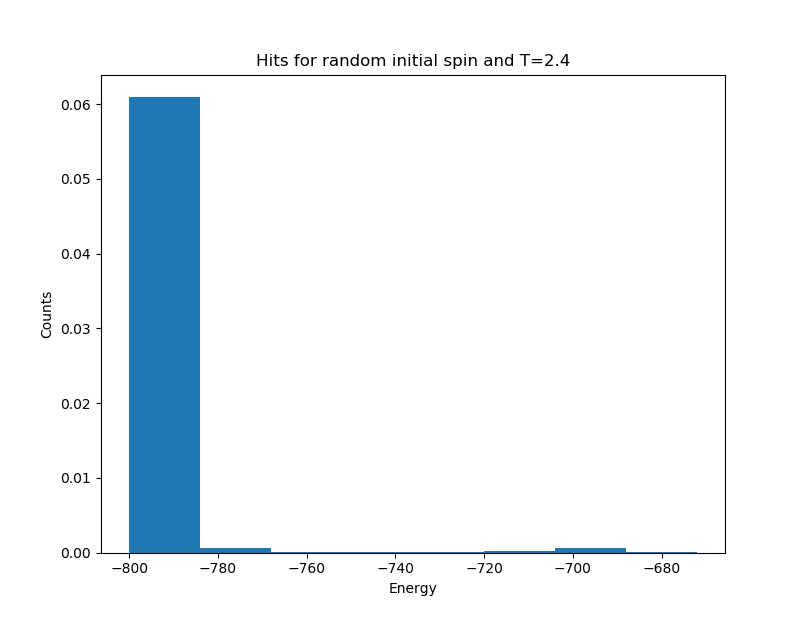
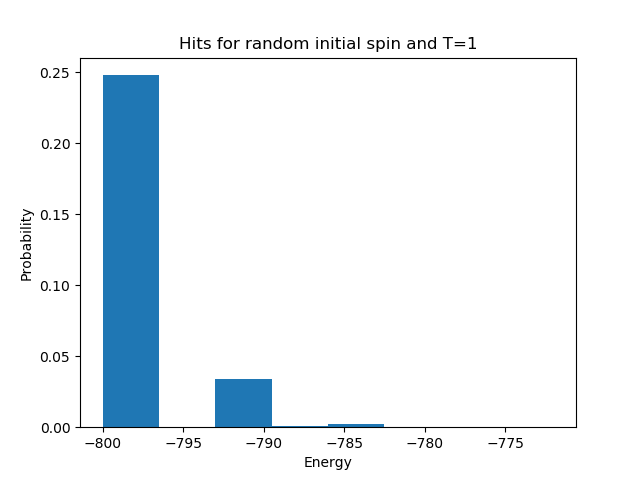
new plot

diff --git a/Project4/phase_transitions.cpp b/Project4/phase_transitions.cpp
@@ -43,27 +43,6 @@ int main(){
 		}
 	}
 
-
-/*
-	vector<int> E_count;
-	vector<int> flip_N;
-	cout << "Grid dim (L) = ";
-	cin >> L;
-	cout << "Cycles (N) = ";
-	cin >> N;
-	cout << "Temp (T) = ";
-	cin >> T0;
-
-
-	double E_mean        = results[0];
-	double M_mean        = results[2];
-	double M_sqrd_mean   = results[3];
-	double M_abs_mean    = results[4];
-	double E_variance    = results[5];
-	double M_variance    = results[6];
-	double specific_heat = results[7];
-	double suceptibility = results[8];
-*/
 	//printResults(results);
 
 

diff --git a/Project4/plot.py b/Project4/plot.py
@@ -20,9 +20,11 @@ for i in range(len(data)):
 
 
 
-plt.hist(energy,8, density = True)
+plt.hist(energy, 8, density = 1)
 #plt.plot(x1, M, label='Magnetization')
-plt.title('Hits for random initial spin and T=2.4')
+#plt.axvline(x=-1.23874*400+7.64854, linestyle= 'dashed', color = 'r')
+#plt.axvline(x=-1.23874*400-7.64854, linestyle= 'dashed', color = 'r')
+plt.title('Hits for random initial spin and T=1')
 plt.xlabel('Energy')
-plt.ylabel('Counts')
+plt.ylabel('Probability')
 plt.show()

diff --git a/Project4/loop.cpp b/Project4/loop.cpp
@@ -19,7 +19,7 @@ int main(){
 	cin >> T;
 
 	// Run the MC Ising model and fetch the resulting values
-	vector<double> results = MonteCarloIsing(N, true, T, L, false);
+	vector<double> results = MonteCarloIsing(N, true, T, L, true);
 	printResults(results);
 
 /*
